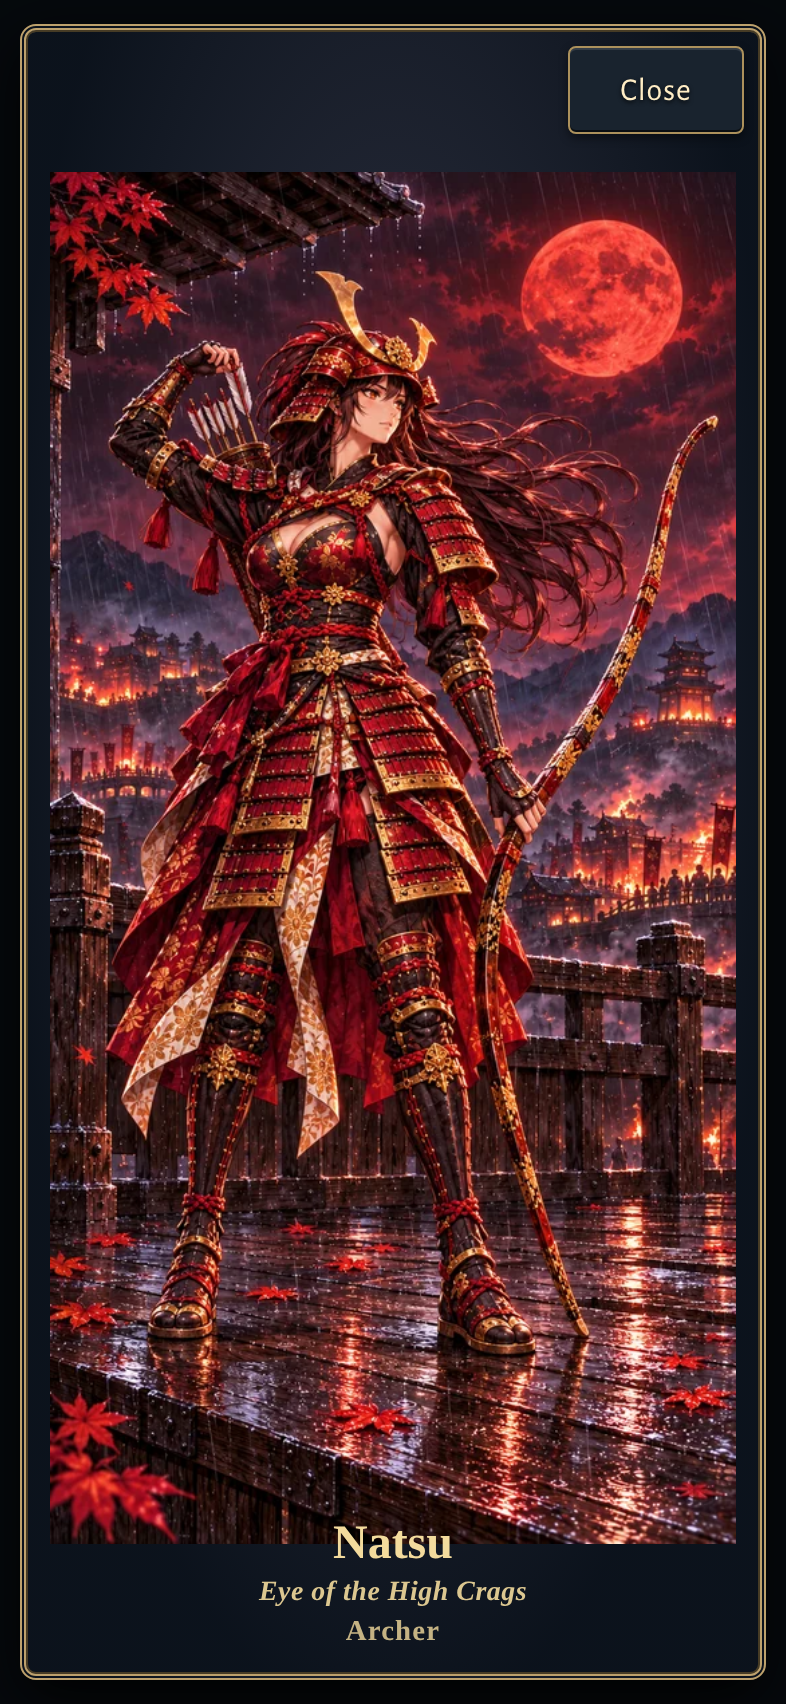
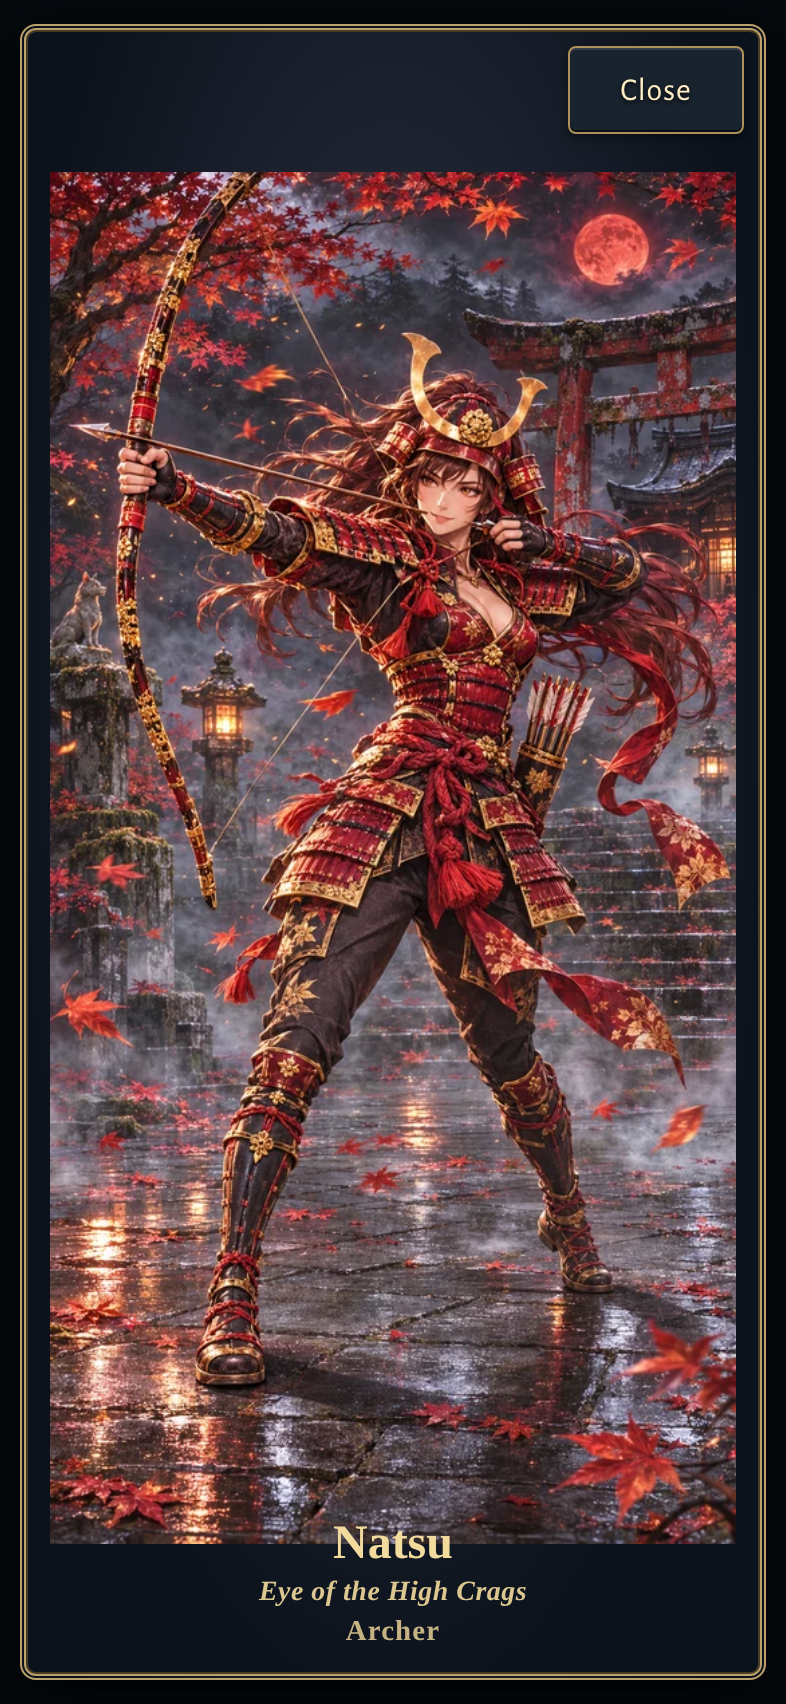
0.622.0: Fairer duels, and Natsu in action (#693)
The infernal, yokai and golem duels made fair at their own level; Natsu's painting from the action pose.

Claude-Session: https://claude.ai/code/session_01NDLKRsLZur627w2ZaVbFjf

diff --git a/src/sim/duel.ts b/src/sim/duel.ts
@@ -41,11 +41,15 @@ export const DUEL_BOSS = { hp: 0.15, atk: 0.4 };
  *  40 to 75% has its own). 1 is the plain share. */
 export const DUEL_ROLE: Record<PartyRole, { hp: number; atk: number }> = { front: { hp: 1, atk: 1 }, striker: { hp: 1.15, atk: 1.05 }, back: { hp: 1, atk: 1 }, support: { hp: 0.85, atk: 0.9 } };
 /** Each army's own factor on the nemesis's duel share (health and attack alike), so a duel at the army's own level sits in the band whatever
- *  the army: the armies' walls differ more than the champions' roles do (`npm run balance -- --duel`). The three last armies are out of the
- *  bot's reach at their own level, so they keep the plain share until they can be measured. */
+ *  the army: the armies' walls differ more than the champions' roles do (`npm run balance -- --duel`). The three last armies (DUEL-FAIR) are
+ *  measured with the mastered hero their walls were tuned for (`DUEL_MASTERED`): with the plain share they won 2 to 15% of their duels. */
 // (DUEL-SHOW: the Undead Legion's and the Beast Packs' re-tuned for the longer duel, `DUEL_LENGTH`: a longer fight helped the Undead's
 // nemeses and, with its signatures slowed, hurt the Beast Packs' bosses; these give each army back its win rate of before)
-export const DUEL_ARMY: Record<string, number> = { orcs: 0.6, undead: 0.8, beasts: 1.46, wildwood: 1.35, labyrinth: 0.95, ogres: 0.78 };
+export const DUEL_ARMY: Record<string, number> = { orcs: 0.6, undead: 0.8, beasts: 1.46, wildwood: 1.35, labyrinth: 0.95, ogres: 0.78, infernal: 0.37, yokai: 0.47, golems: 0.4 };
+/** DUEL-FAIR (docs/notes/duel-fair.md): the armies whose walls were tuned for a hero with every skill mastered (SKILLS-10: the Infernal Host,
+ *  the Yokai and the Golem Forge, `docs/notes/skills-10.md`). Their duels are measured with the hero their walls were built for
+ *  (`npm run balance -- --duel` gives it its mastered skills), and their factors set by it. */
+export const DUEL_MASTERED: readonly string[] = ['infernal', 'yokai', 'golems'];
 /**
  * DUEL-SHOW (the owner: "the duels are so short"; docs/notes/duel-show.md): how a duel is made longer without changing who wins.
  * - `soften`: every blow in the ring lands this many times softer (`Battle.duel.soften`, in `hurt`), and a boss's great blows come that much

diff --git a/test/duel-fair.test.ts b/test/duel-fair.test.ts
@@ -1,0 +1,32 @@
+// DUEL-FAIR (docs/notes/duel-fair.md): the three last armies' duels, eased to the band the others sit in.
+
+import { test } from 'node:test';
+import assert from 'node:assert/strict';
+import { ARMIES } from '../src/sim/armies';
+import { DUEL_ARMY, DUEL_MASTERED, duelShare } from '../src/sim/duel';
+
+test('the armies whose walls were tuned for mastered skills are the three last ones', () => {
+  assert.deepEqual([...DUEL_MASTERED].sort(), ['golems', 'infernal', 'yokai']);
+  for (const id of DUEL_MASTERED) assert.ok(ARMIES.some((a) => a.id === id), `${id} is an army`);
+});
+
+test('every army has its own duel factor; the three last ones are eased below the plain share', () => {
+  for (const a of ARMIES) assert.ok(DUEL_ARMY[a.id] > 0, `${a.id} has a factor`);
+  for (const id of DUEL_MASTERED) assert.ok(DUEL_ARMY[id] < 1, `${id} eased`);
+  assert.deepEqual({ infernal: DUEL_ARMY.infernal, yokai: DUEL_ARMY.yokai, golems: DUEL_ARMY.golems }, { infernal: 0.37, yokai: 0.47, golems: 0.4 });
+});
+
+test('the other armies keep the factors they had', () => {
+  const { orcs, undead, beasts, wildwood, labyrinth, ogres } = DUEL_ARMY;
+  assert.deepEqual({ orcs, undead, beasts, wildwood, labyrinth, ogres }, { orcs: 0.6, undead: 0.8, beasts: 1.46, wildwood: 1.35, labyrinth: 0.95, ogres: 0.78 });
+});
+
+test('the nemesis’s duel share carries its army’s factor, on health and attack alike', () => {
+  for (const id of DUEL_MASTERED)
+    for (const boss of [false, true]) {
+      const plain = duelShare('knight', boss);
+      const s = duelShare('knight', boss, id);
+      assert.ok(Math.abs(s.hp - plain.hp * DUEL_ARMY[id]) < 1e-12, `${id} hp`);
+      assert.ok(Math.abs(s.atk - plain.atk * DUEL_ARMY[id]) < 1e-12, `${id} atk`);
+    }
+});

diff --git a/tools/balance.ts b/tools/balance.ts
@@ -51,7 +51,8 @@ import { TIERS } from '../src/sim/tiers';
 import { eidolonAt, maybeSpells, playArmy, savedAt, climbMeta } from './autoplay';
 import { fullCouncil, growWar, harshen } from './nemesis/warBot';
 import { WAR_BOT } from './autoplay';
-import { DUEL_ARMY, DUEL_BOSS, DUEL_LENGTH, DUEL_ROLE, DUEL_SHARE, duelOutcome, startDuel } from '../src/sim/duel';
+import { DUEL_ARMY, DUEL_BOSS, DUEL_LENGTH, DUEL_MASTERED, DUEL_ROLE, DUEL_SHARE, duelOutcome, startDuel } from '../src/sim/duel';
+import { giveMastery } from './skills/mastery';
 import { roleOf, type PartyRole } from '../src/sim/suggest';
 import { armyRun, recruit } from '../src/sim/run';
 import { snapOf, type Nemesis } from '../src/sim/nemesis';
@@ -741,6 +742,8 @@ function duelTable(): void {
           for (const dread of [false, true]) {
             for (let seed = 1; seed <= seeds; seed++) {
               const meta = savedAt(army.level, [kind], mixSeed(seed, 0xd0e1));
+              // (DUEL-FAIR: an army whose wall was tuned for mastered skills is duelled by the hero it was tuned for, `DUEL_MASTERED`)
+              if (DUEL_MASTERED.includes(army.id) && !process.argv.includes('--duel-unmastered')) giveMastery(meta, [kind], army.level);
               for (const t of [1, 2, 3, 4, 5, 6, 7] as const) for (const node of tierNodes(kind, t)) learn(meta, kind, node.id);
               const run = armyRun(mixSeed(seed, 0xd0e1, ARMIES.indexOf(army), might, wave), army.id, [kind], castleAt(army.level), 0);
               run.roster = [];

diff --git a/src/updates.ts b/src/updates.ts
@@ -27,6 +27,12 @@ export interface EarlierUpdates {
 /** Every release since 0.189.0, newest first. */
 export const UPDATES: readonly Update[] = [
   {
+    version: '0.622.0',
+    date: '2026-11-25',
+    title: 'Fairer duels, and Natsu in action',
+    notes: ['A duel against the Infernal Host, the Yokai Night Parade or the Golem Forge is now a fair fight at your own level.', 'Natsu\'s painting is redone in an action pose, bow drawn.'],
+  },
+  {
     version: '0.621.0',
     date: '2026-11-25',
     title: 'Guests, a ghost ship and Natsu restored',

diff --git a/docs/notes/duel-fair.md b/docs/notes/duel-fair.md
@@ -1,0 +1,63 @@
+# Duel fair: the three last armies' duels
+
+The owner said yes to making the duels fairer. At their own level, heroes won their duels against the Infernal Host 15%, the Yokai 9% and
+the Golem Forge 2% (NEMESIS-DEPTH's measure), while the other armies sat near the band.
+
+## Why
+
+- **The three last armies' walls were built for a stronger hero.** SKILLS-10 (`docs/notes/skills-10.md`) raised exactly the Infernal Host,
+  the Yokai and the Golem Forge for heroes with every skill mastered (level 40 and up: skills 5, 5, 5). A duel's nemesis is cut from its
+  wave's wall (`duelShare`), so its duel stats grew with them.
+- **Their duels were never tuned.** Phase 4 and DUEL-SHOW gave each army its own duel factor (`DUEL_ARMY`), but these three were "out of
+  the bot's reach at their own level" and kept the plain share (x1).
+- **And they were measured with the wrong hero.** The duel table (`npm run balance -- --duel`) duelled them with an unmastered hero.
+  Measured at Might 5, the captain's health against the hero's attack was 56 blows for the Ogre Clans but 60, 69 and 170 for the three; the
+  nemesis's attack against the hero's health 0.14 for the Ogres, 0.26, 0.25 and 0.35 for the three. The knight won none of them.
+
+Neither alone mends it: with the mastered hero and the plain share, a sample of twelve kinds (6 seeds) still won 13%, 10% and 2%.
+
+## The fix
+
+Data and the measuring tool only; ordinary fights are untouched.
+
+- `DUEL_MASTERED` (`src/sim/duel.ts`) names the three armies. The duel table gives the hero its mastered skills for them (`giveMastery`,
+  the same as `--mastery auto`), the hero their walls were tuned for; `--duel-unmastered` measures the old way.
+- `DUEL_ARMY` gains their factors, on the nemesis's duel health and attack alike: **the Infernal Host x0.37, the Yokai x0.47, the Golem
+  Forge x0.4**.
+- The duel's stakes, outcomes, ring, clock, roles and the boss's cut are unchanged; the other six armies keep their factors.
+
+**The band chosen:** 55 to 65% at the army's own level in all (the duel table's own band), 50 to 75% accepted; the other six sit 55 to 71%.
+A duel stays a real risk: by Might (1, 5, 10) the three run 64, 61, 57% (Infernal), 66, 62, 57% (Yokai) and 68, 61, 52% (Golems); with the Dread 68, 71 and 74%.
+
+## Measured
+
+`npm run balance -- --no-tables --duel --duel-seeds 32` (every kind, its army's level on Normal, talents learned, captain and boss at
+Might 1, 5 and 10), split by `--only`:
+
+| Army | Before | After |
+|---|---|---|
+| Orc Warband | 54.7% | 54.7% |
+| Undead Legion | 62.3% | 62.3% |
+| Beast Packs | 65.2% | 65.2% |
+| The Wildwood | 70.8% | 70.8% |
+| The Labyrinth | 68.4% | 68.4% |
+| Ogre Clans | 59.2% | 59.2% |
+| Infernal Host | 6.5% | 60.8% |
+| Yokai | 5.9% | 61.8% |
+| Golem Forge | 2.7% | 60.0% |
+
+("Before" is the unmastered hero at the plain share, as measured before; the six armies' factors and hero are unchanged, so their duels
+play out the same.)
+
+The first try (x0.42, x0.55, x0.44, set from the twelve-kind sample) came to 53.2%, 48.9% and 50.0% over every kind at 32 seeds, so they
+were eased to the factors above (60.6%, 60.4% and 61.3% at 8 seeds).
+
+`npm run war-sim`: identical before and after, line for line (46 duels, 89% won). Its bot reaches the three armies late (the
+Golem Forge from day 99) and none of its duels' outcomes changed; it does not give its heroes mastered skills.
+
+## Worth knowing
+
+- The factors assume a hero with mastered skills, as the three armies' walls do. A player who reaches them unmastered finds their duels
+  harder than the band, as they find the armies' waves.
+- Tests: `test/duel-fair.test.ts` (the three named, their factors, the other armies' kept, the share carrying the factor). The pinned
+  regressions (`nemesis-regression`, `stand-regression`, `ailments-identical`) pass unchanged.

diff --git a/docs/notes/natsu-fix.md b/docs/notes/natsu-fix.md
@@ -1,11 +1,21 @@
 # NATSU-FIX: Natsu's painting with both legs
 
 The owner: Natsu's full painting showed only one leg. ChatGPT repainted it (PR #687, `art-source/fix/natsu-archer.png`, 1024 x 2048,
-opaque). Her pose changed: the bow is lowered and she reaches back for an arrow.
+opaque). In that repaint the bow is lowered and she reaches back for an arrow (0.621).
+
+**NATSU-ACTION** (the owner's second repaint, the `art/natsu-fix` branch's "Paint Natsu in a new action pose", for PR #691): she stands
+at full draw, bow raised, the arrow pointing LEFT, both legs planted, a torii shrine behind her. Her painting is re-cut from it in the
+same way. Her facing matters nowhere it is shown:
+- the viewer, the tarot reveal and the arrival show the painting as it is;
+- their own facing-right figure is her battle sprite, drawn separately below it;
+- nothing mirrors the painting.
+
+So nothing is mirrored. The pictures (`node tools/natsu-fix/shots.mjs`) are `natsu-painting.png`, `natsu-tarot.png`,
+`natsu-arrival.png` and `natsu-card.png`.
 
 ## What changed
 
-- **`src/art/heroes/archer.webp`**: her full painting, shown by "View full artwork" on her hero card, the summoning's tarot reveal
+- **`src/art/heroes/archer.webp`** (re-cut again from the action pose): her full painting, shown by "View full artwork" on her hero card, the summoning's tarot reveal
   and an earned hero's arrival. It is re-cut from the new picture as the whole figure, at 512 x 1024 and WebP quality 88, as before.
   - The old painting was the whole figure too. Her face lands in the same column and about 35 px higher at that size.
   - Zooming in to put the face exactly where it was would crop her legs off again, which is the fault this fixes, so it is not zoomed.
@@ -44,6 +54,8 @@ no ground, no shadow). She is in exactly the pose, outfit, colours and painted s
 - the red and gold samurai armour with its crescent helm crest, and her long dark hair blowing.
 
 The whole figure is in frame, from the crest of her helm to her feet, centred, filling the height.
+(Since NATSU-ACTION the pose is her action pose instead: at full draw, bow raised, the arrow pointing left, both legs planted, as in
+the newest art-source/fix/natsu-archer.png. The owner's own prompt follows that file.)
 The canvas is 1024 x 1536 (2:3, upright). No text, letters, logos or signatures.
 Match: art-source/fix/natsu-archer.png (her pose and look) and src/art/heroes/knight-portrait.webp and samurai-portrait.webp (how the
 other heroes' cut-outs are framed: the whole figure, cleanly edged, on transparency).
